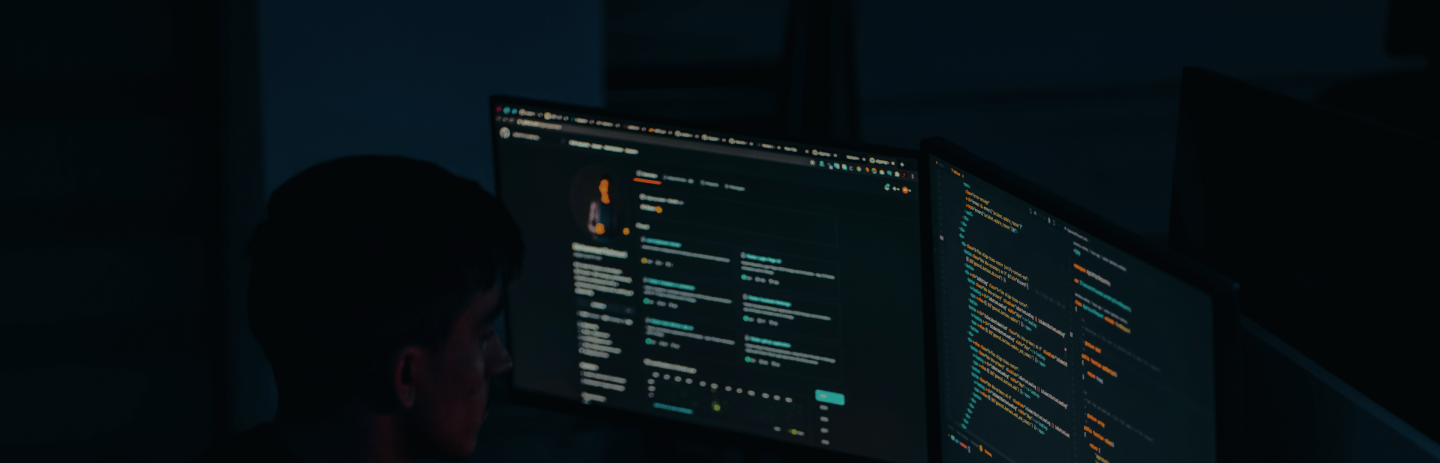
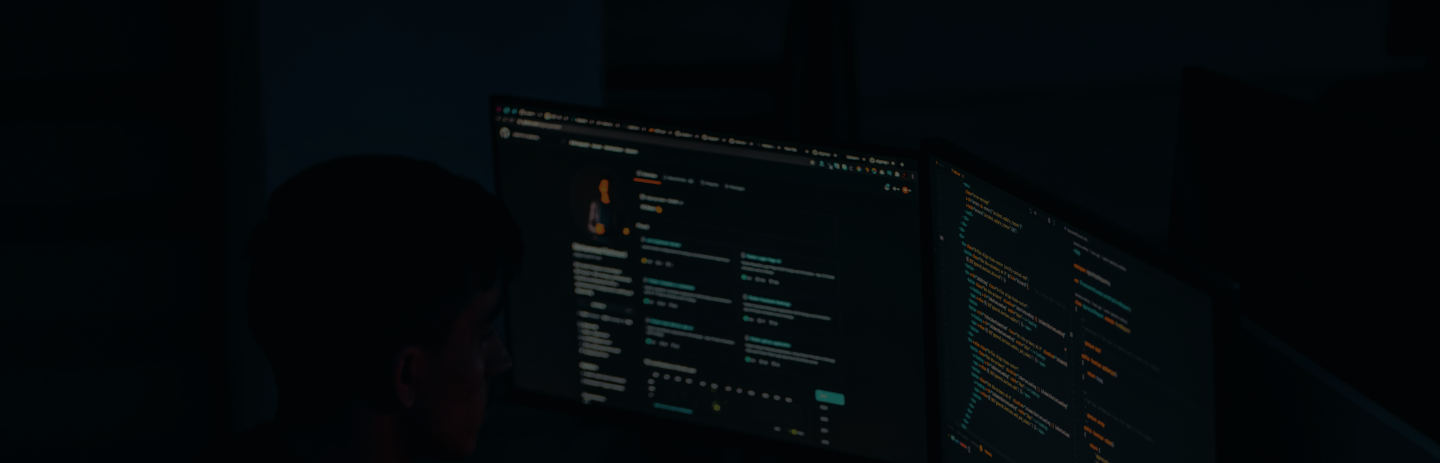
adjust on exposure image

diff --git a/index.css b/index.css
@@ -73,19 +73,14 @@ header .header .header-menu li:hover::after {
 }
 main {
   padding-top: 9rem;
-  height: 23rem;
-  background: url("/assets/images/apresentacao.png") no-repeat left top;
+  height: 50vh;
+  background: url("/assets/images/apresentacao.png") no-repeat center bottom;
   background-size: cover;
 }
 main .introducao .introducao-icones {
   padding: 1.5rem 0rem;
 }
 
-@media (max-width: 650px) {
-  main {
-    background: url("/assets/images/apresentacao.png") no-repeat center top;
-  }
-}
 @media (max-width: 430px) {
   main .introducao > h1 {
     font-size: 3rem;

diff --git a/style/components/main/_main.scss b/style/components/main/_main.scss
@@ -1,19 +1,13 @@
 main {
   padding-top: 9rem;
-  height: 23rem;
-  background: url("/assets/images/apresentacao.png") no-repeat left top;
+  height: 50vh;
+  background: url("/assets/images/apresentacao.png") no-repeat center bottom;
   background-size: cover;
 
   & .introducao {
     & .introducao-icones {
       padding: 1.5rem 0rem;
     }
-  }
-}
-
-@media (max-width: 650px) {
-  main {
-    background: url("/assets/images/apresentacao.png") no-repeat center top;
   }
 }
 
